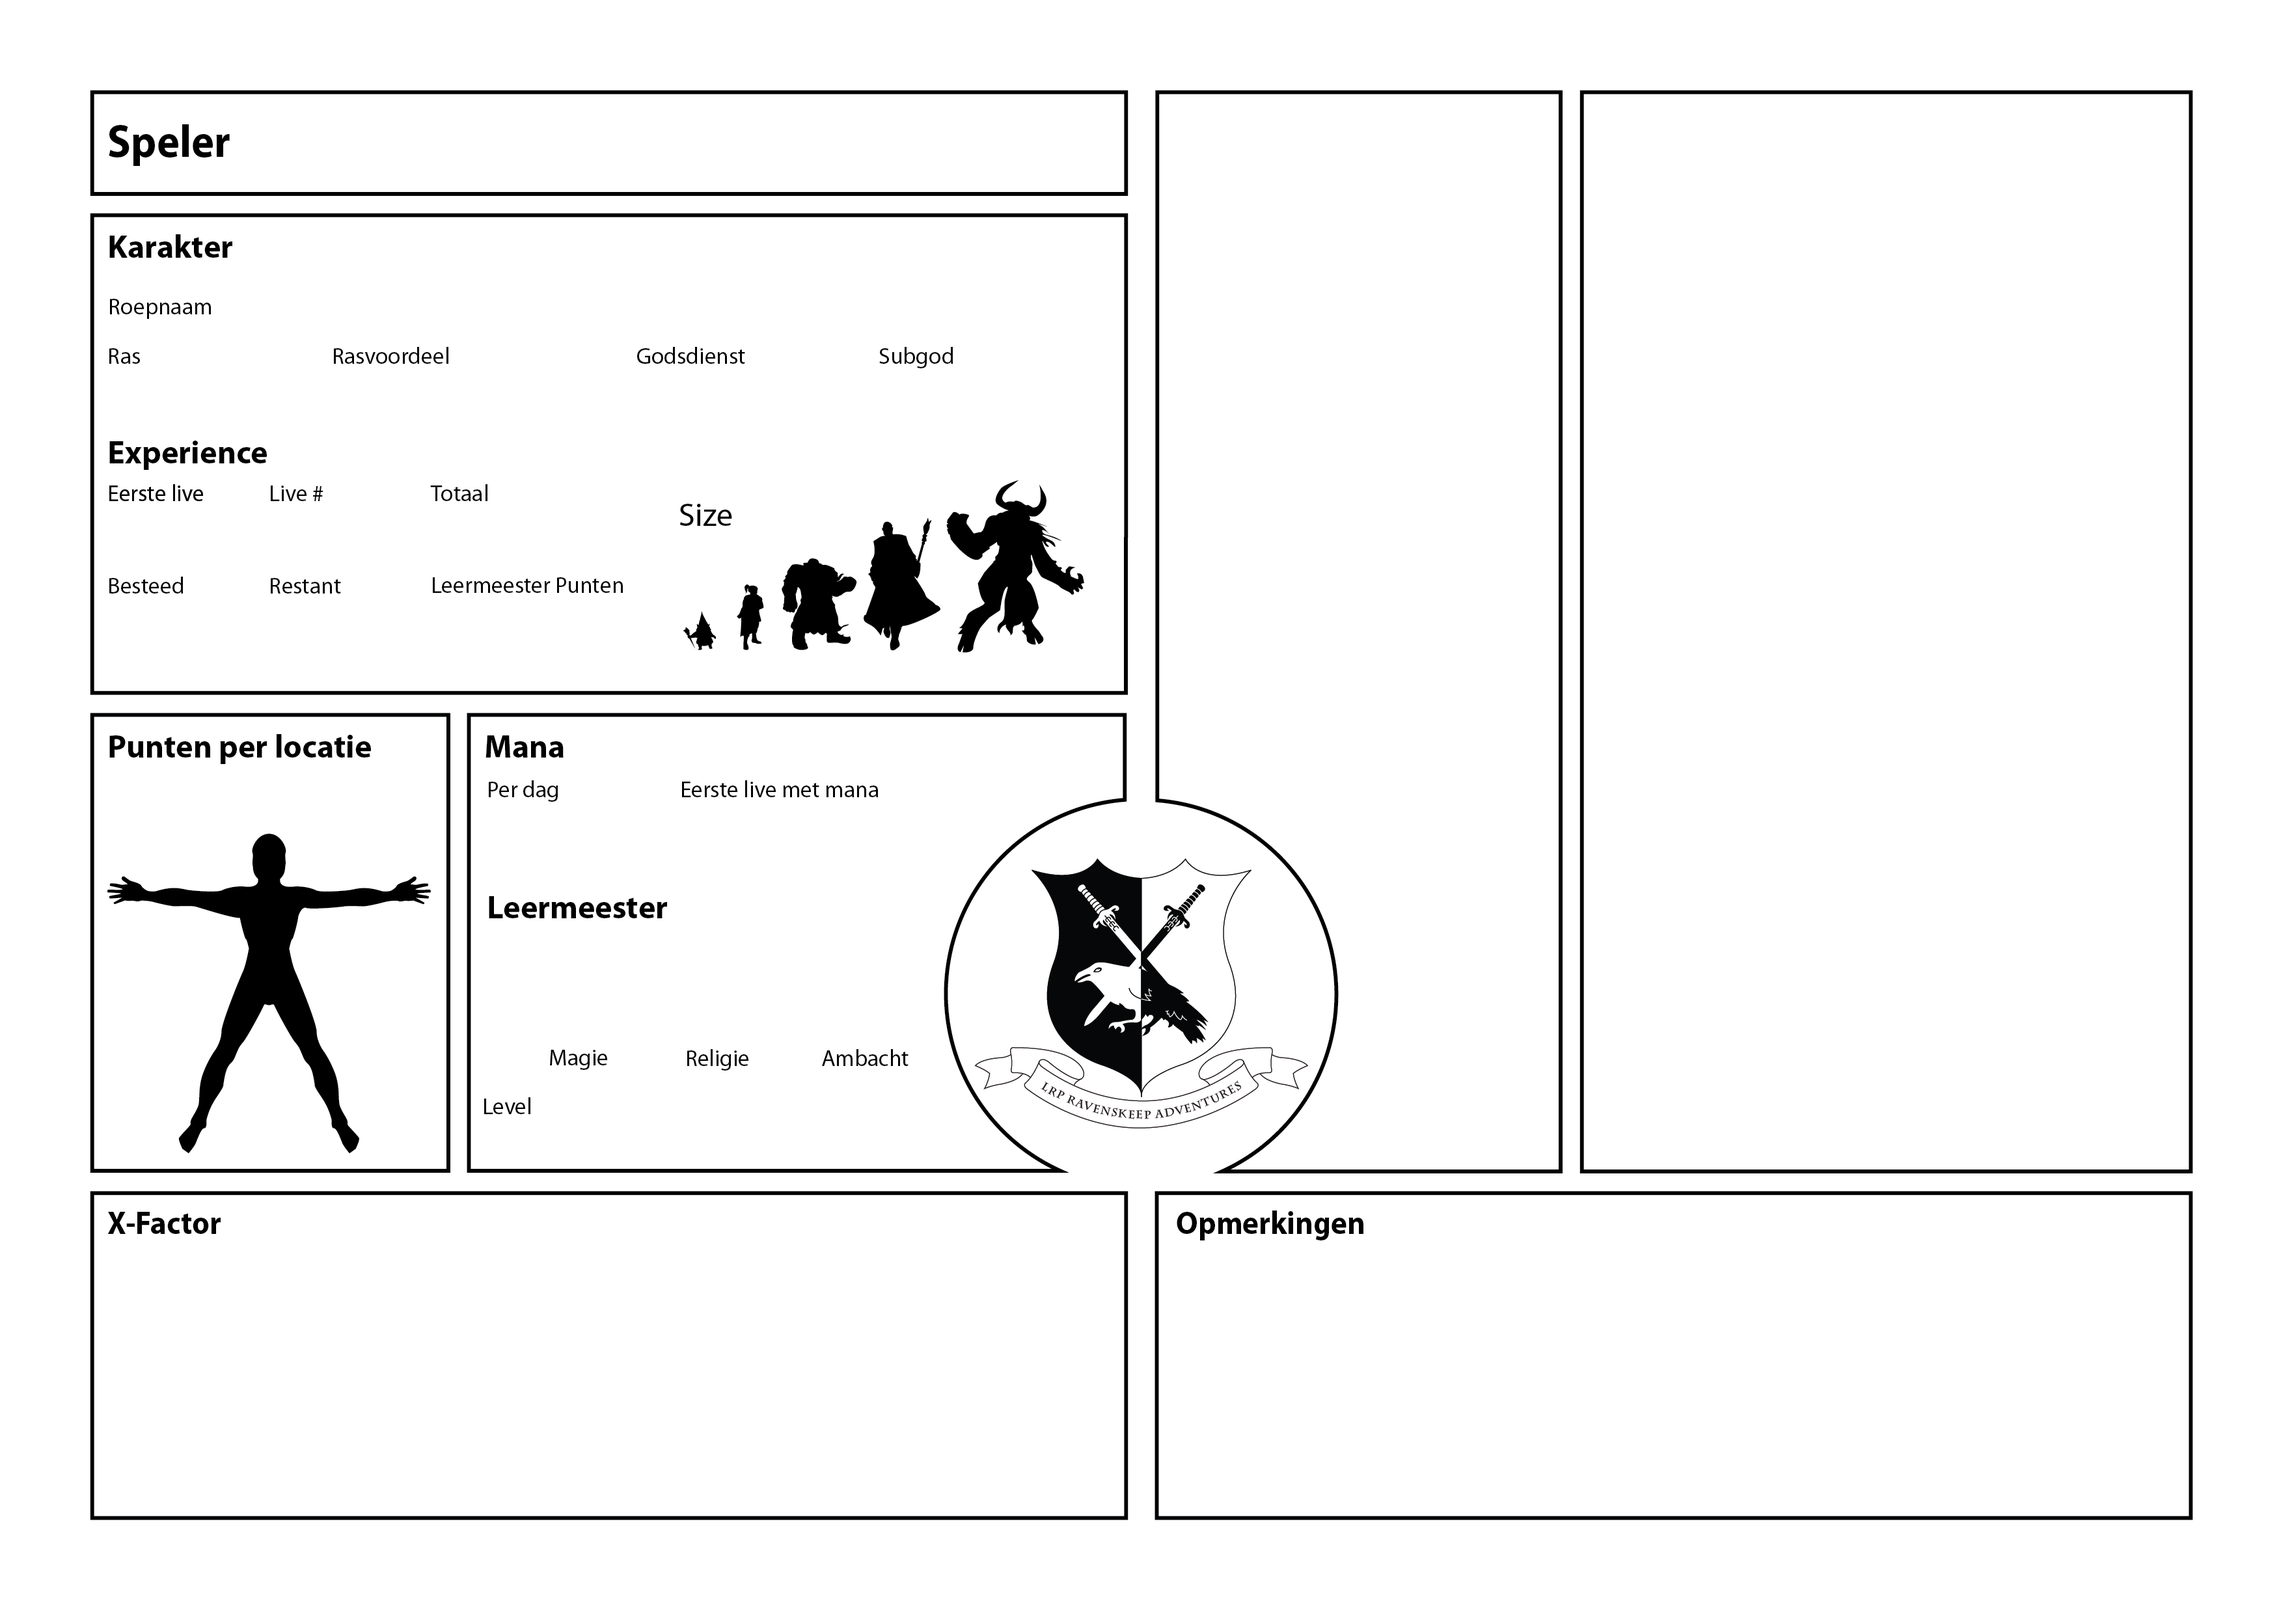
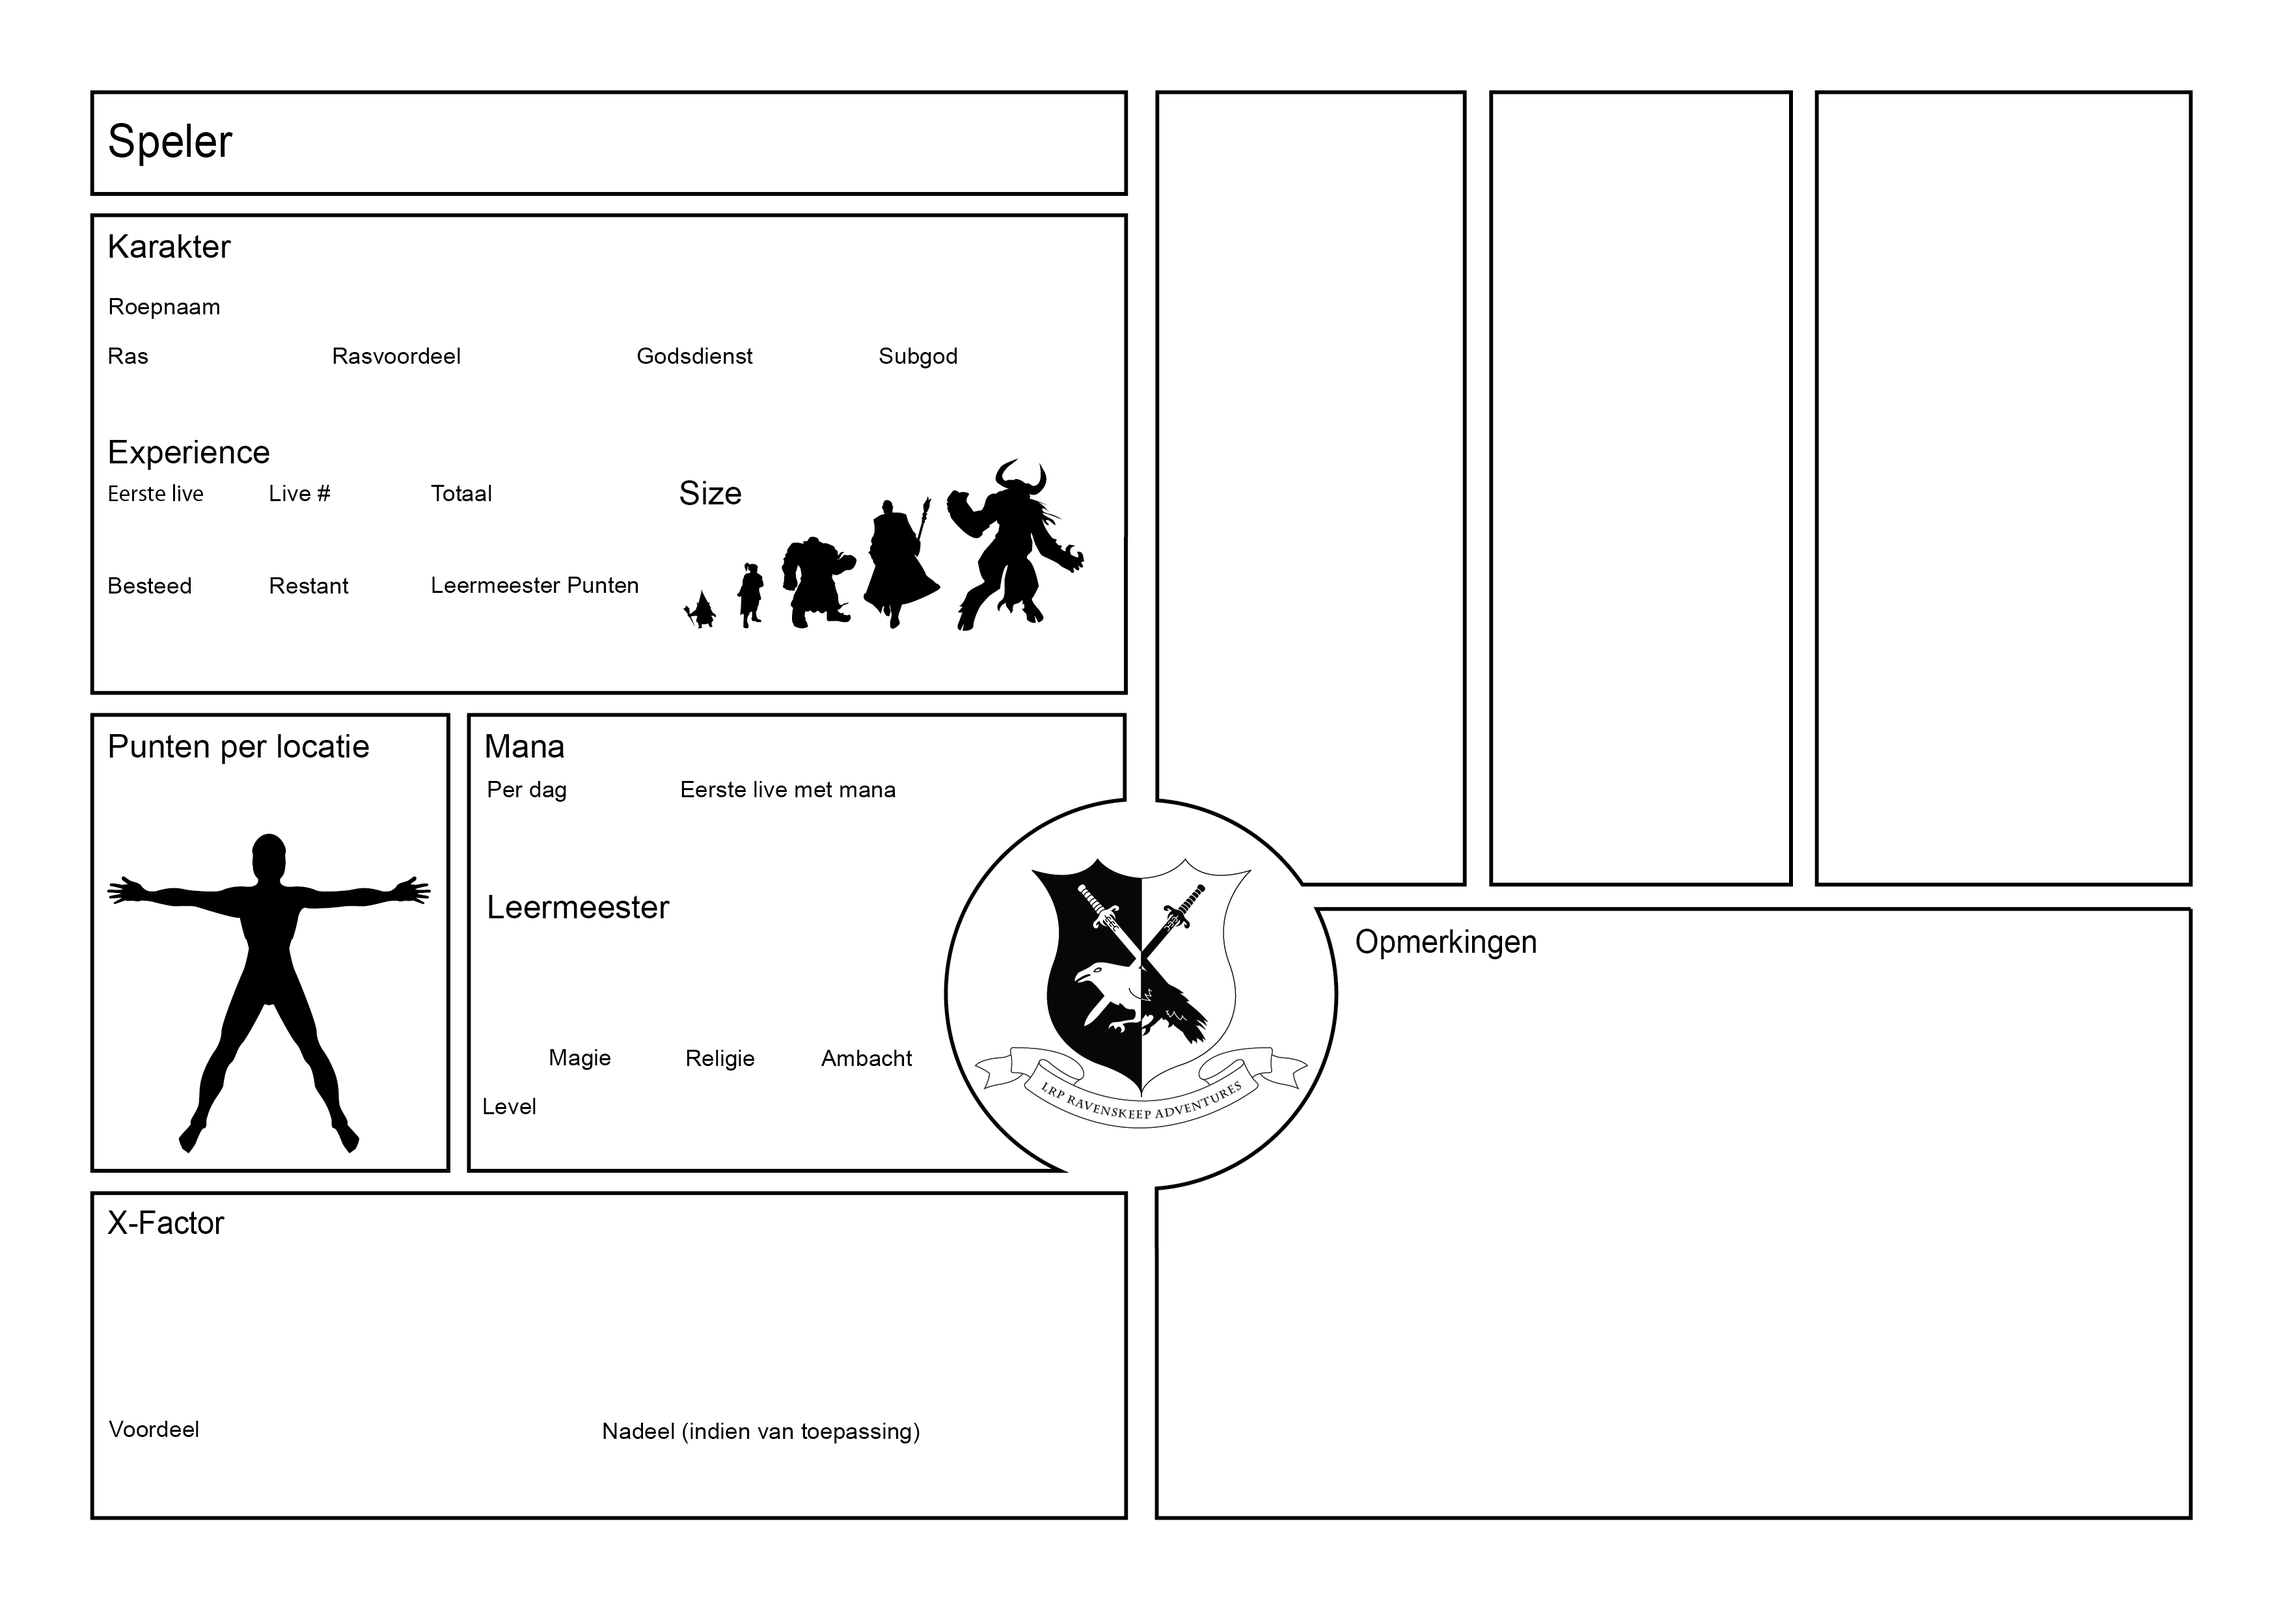
changed background image, and several css lines

diff --git a/static/css/printindex.css b/static/css/printindex.css
@@ -257,21 +257,21 @@ input[type="radio"]{
 #lvlmagie{
 	top: 140.7mm;
 	left: 71.4mm;
-	width: 17.7mm;
+	width: 14.7mm;
 	height: 6mm;
 }
 
 #lvlreligie{
 	top: 140.7mm;
 	left: 89.2mm;
-	width: 17.7mm;
+	width: 14.7mm;
 	height: 6mm;
 }
 
 #lvlambacht{
 	top: 140.7mm;
 	left: 107mm;
-	width: 17.6mm;
+	width: 14.7mm;
 	height: 6mm;
 }
 
